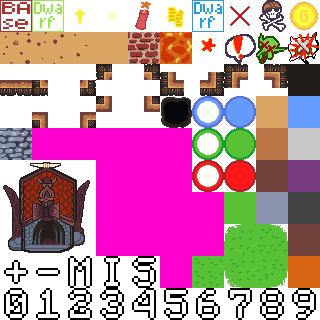
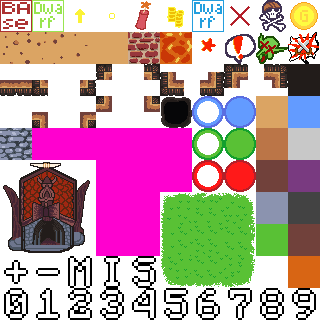
outpost floor

Changed region(s): [[0.5, 0.5938, 0.9062, 0.9062], [0.8438, 0.6875, 0.9062, 0.75]]

diff --git a/TODO.md b/TODO.md
@@ -2,7 +2,7 @@
 # In progress
 ////////////////////////////////////////////////////////////////////////////////////////////////////
 
-- Make bases 3 x 3 tiles
+- Art: Outpost base sprites
 
 ////////////////////////////////////////////////////////////////////////////////////////////////////
 # Bugs
@@ -46,8 +46,6 @@
 - Art: Iron ore sprite
 - Art: Obsidian sprite
 - Art: Dynamite sprite
-- Art: Home base sprite
-- Art: Outpost base sprites
 - Art: Treasure sprites
 - Art: Better lava sprites / animations
 - Art: Better water sprites / animations
